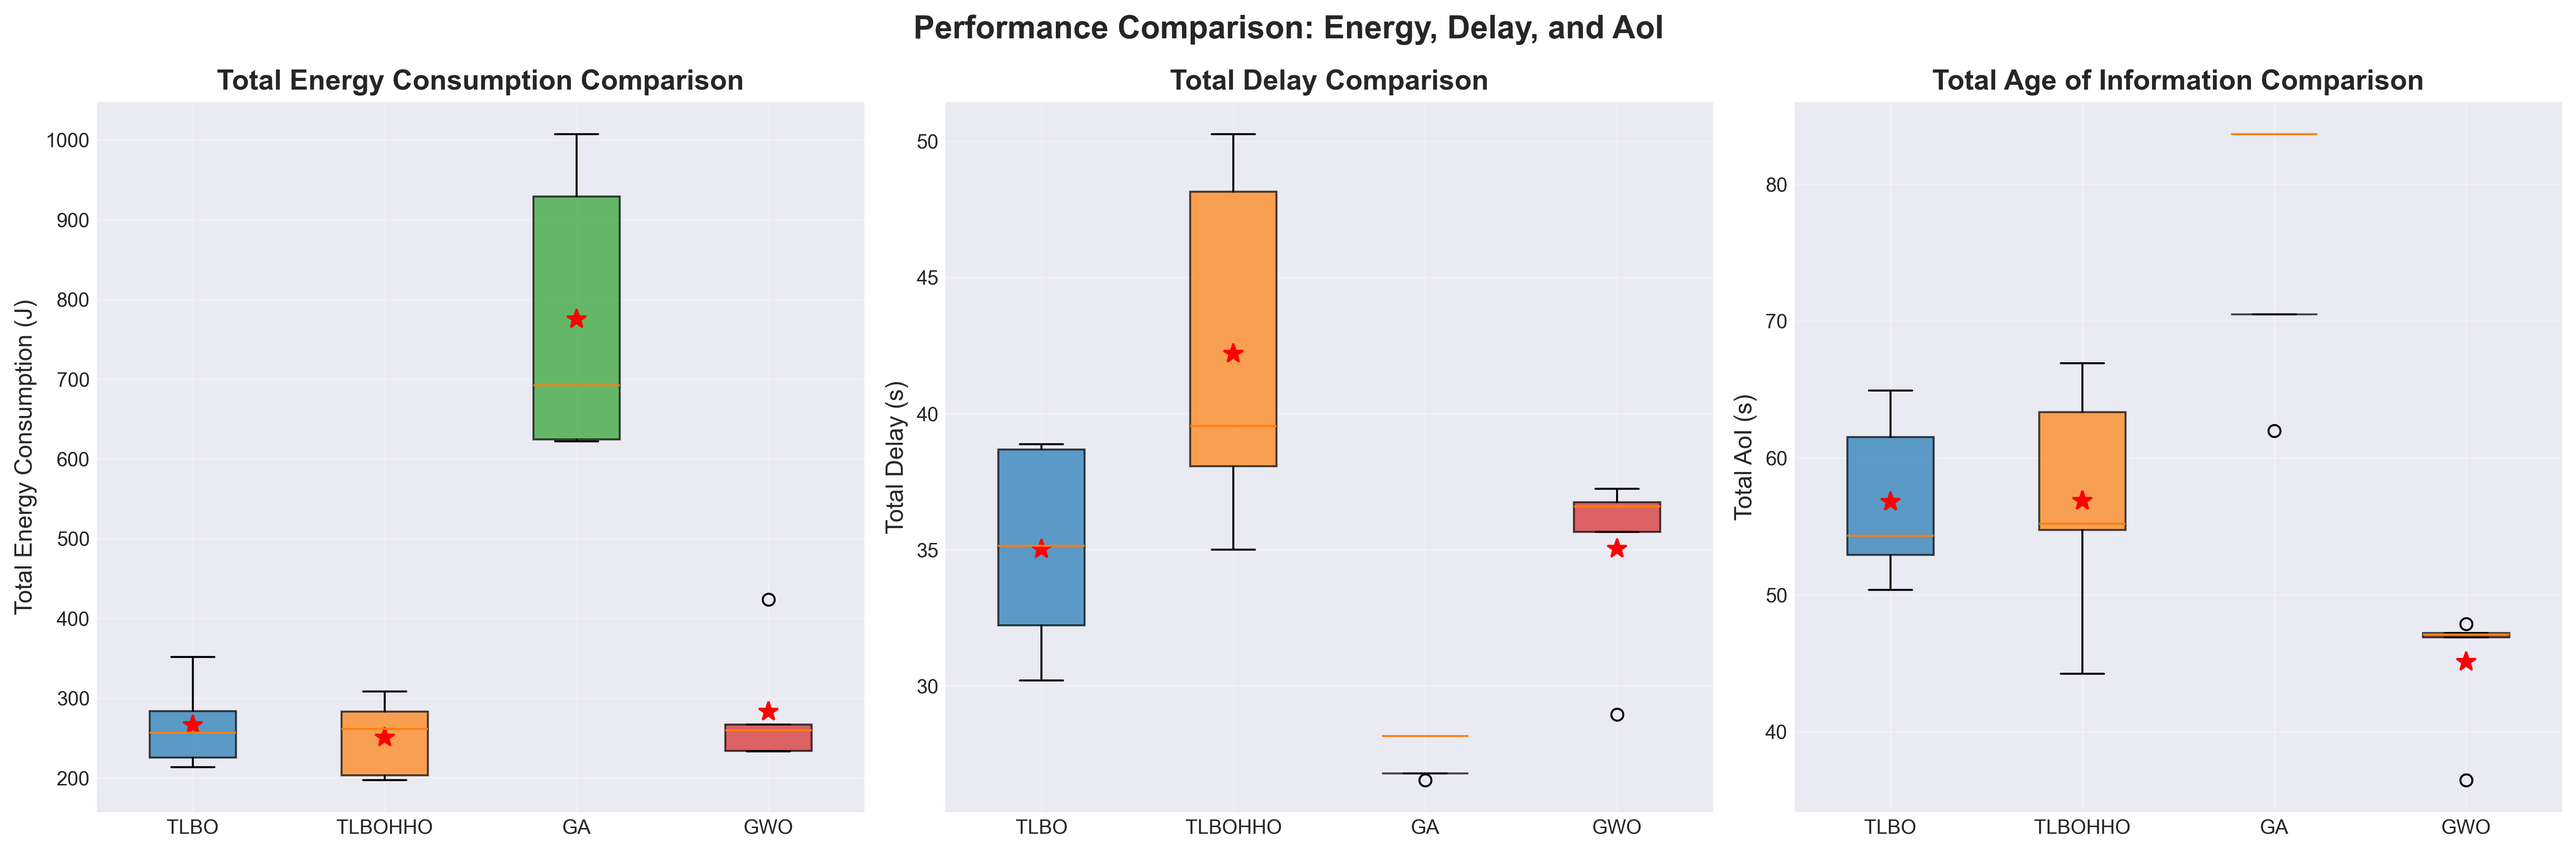
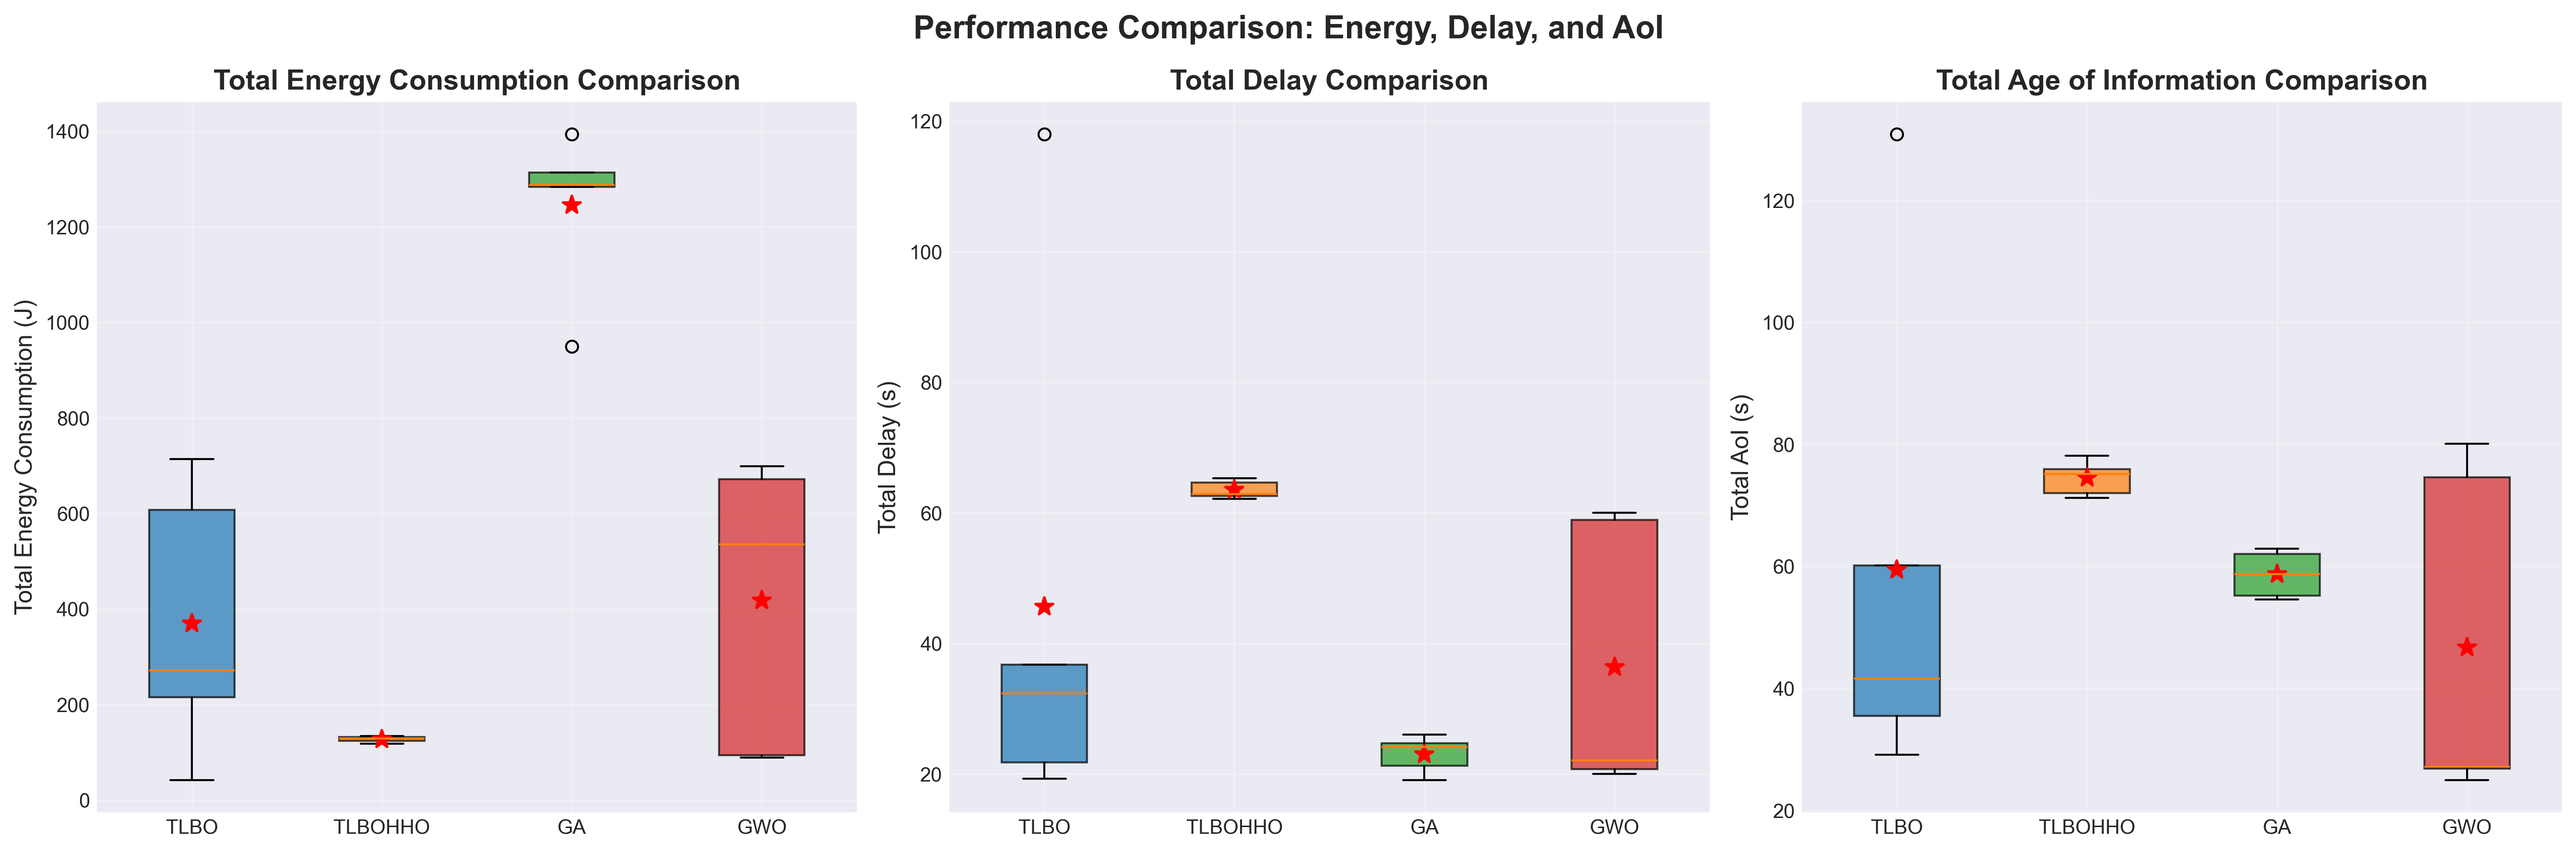
update aoi exp,好像做完了哦

diff --git a/src/experiments/complete_aoi_exp_balance.py b/src/experiments/complete_aoi_exp_balance.py
@@ -1,4 +1,4 @@
-# src/experiments/complete_aoi_experiment.py
+# src/experiments/complete_aoi_exp_balance.py
 import os
 import numpy as np
 import matplotlib.pyplot as plt
@@ -289,8 +289,8 @@ def run_algorithm_comparison_balanced(system, max_iter=150, population_size=50, 
     energy_model = EnergyModel(system)
     aoi_model = AoIModel(system, delay_model)
     
-    # 使用平衡权重
-    w_energy, w_delay, w_aoi = 0.33, 0.33, 0.34
+    # 针对AoI优化的权重
+    w_energy, w_delay, w_aoi = 0.25, 0.35, 0.40
     
     # 初始化算法
     algorithms = {
@@ -303,7 +303,8 @@ def run_algorithm_comparison_balanced(system, max_iter=150, population_size=50, 
             system, delay_model, energy_model, aoi_model,
             max_iter=max_iter, population_size=population_size,
             w_energy=w_energy, w_delay=w_delay, w_aoi=w_aoi, 
-            hho_prob=0.3, verbose=False
+            hho_prob=0.7,  # 增加HHO使用概率
+            verbose=False
         ),
         'GA': GA(
             system, delay_model, energy_model, aoi_model,
@@ -986,11 +987,11 @@ def plot_task_allocation_comparison(results, system, save_dir):
     # plt.savefig(os.path.join(save_dir, 'balanced_radar_comparison.png'), dpi=300, bbox_inches='tight')
     # plt.close()
     
-    print(f"\n图表已保存到 {save_dir} 目录：")
-    print("  - balanced_convergence.png")
-    print("  - balanced_metrics_comparison.png")
-    print("  - balanced_distribution_comparison.png")
-    print("  - balanced_radar_comparison.png")
+    # print(f"\n图表已保存到 {save_dir} 目录：")
+    # print("  - balanced_convergence.png")
+    # print("  - balanced_metrics_comparison.png")
+    # print("  - balanced_distribution_comparison.png")
+    # print("  - balanced_radar_comparison.png")
 
 
 def run_complete_aoi_experiment():
